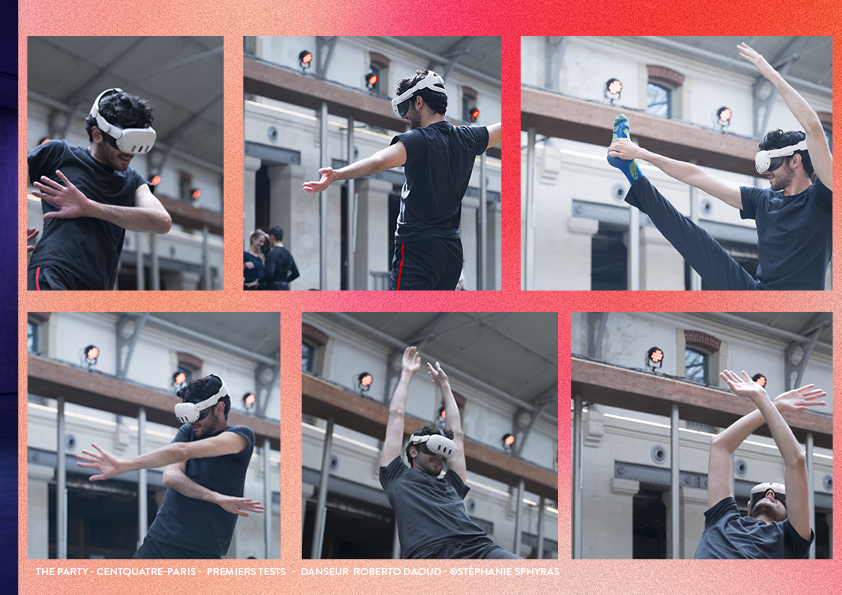
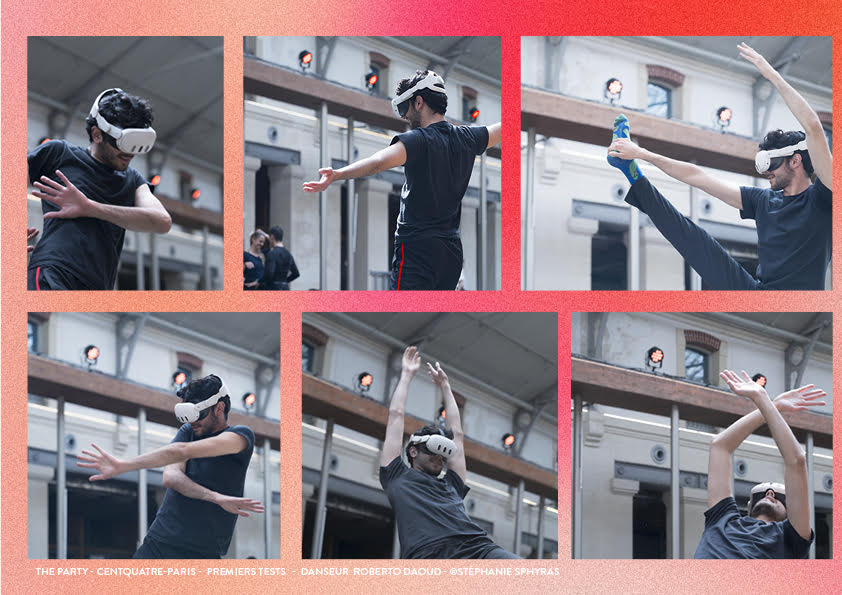
fix(the-party): corriger la slide et le doublon photo

Changed region(s): [[0.0, 0.0, 0.0309, 1.0]]

diff --git a/src/the-party.html b/src/the-party.html
@@ -192,16 +192,13 @@
                     <img src="img/pages/the-party/the-party-1.jpg" alt="The Party : page de présentation du projet de réalité mixte et théâtre" width="842" height="595" loading="lazy">
                 </figure>
                 <figure>
-                    <img src="img/pages/the-party/the-party-2.jpg" alt="The Party : intentions artistiques et contexte de développement" width="842" height="595" loading="lazy">
+                    <img src="img/pages/the-party/the-party-2.jpg" alt="The Party : danseur équipé d'un casque VR dans un montage de six photos au Centquatre-Paris" width="842" height="595" loading="lazy">
                 </figure>
                 <figure>
                     <img src="img/pages/the-party/the-party-3.jpg" alt="The Party : univers visuel et dramaturgie immersive" width="842" height="595" loading="lazy">
                 </figure>
                 <figure>
                     <img src="img/pages/the-party/the-party-4.jpg" alt="The Party : présentation avec légende et crédits de l'image principale" width="842" height="595" loading="lazy">
-                </figure>
-                <figure>
-                    <img src="img/pages/the-party/the-party-photo.jpg" alt="The Party : photographie seule issue de l'export sans légende" width="486" height="595" loading="lazy">
                 </figure>
             </div>
         </section>

diff --git a/tests/prd013-catalogue-xr-the-party.spec.js b/tests/prd013-catalogue-xr-the-party.spec.js
@@ -10,7 +10,6 @@ const thePartyAssets = [
   'img/pages/the-party/the-party-2.jpg',
   'img/pages/the-party/the-party-3.jpg',
   'img/pages/the-party/the-party-4.jpg',
-  'img/pages/the-party/the-party-photo.jpg',
 ];
 
 function readSrc(relativePath) {
@@ -68,6 +67,7 @@ test.describe('PRD-013 - catalogue XR et The Party', () => {
       expect(fs.existsSync(path.join(srcDir, asset)), asset).toBe(true);
       expect(page, asset).toContain(asset);
     }
+    expect(page).not.toContain('img/pages/the-party/the-party-photo.jpg');
 
     expect(xr).toContain('href="the-party.html"');
     expect(xr).toContain('The Party');

diff --git a/prd-meta-workflow/PRD-013-catalogue-xr-the-party.MD b/prd-meta-workflow/PRD-013-catalogue-xr-the-party.MD
@@ -3,7 +3,7 @@
 **Statut** : Implémenté et vérifié localement
 **Date** : 2026-06-21
 **Auteur** : Alex
-**Source** : `retour/changements_site (1).docx`, `retour/site_images/the_party*.jpg`, inspection de `src/index.html` et `src/experiences-series.html`
+**Source** : `retour/changements_site (1).docx`, `retour/site_images/the_party*.jpg`, `retour/the-party-1.jpg`, inspection de `src/index.html` et `src/experiences-series.html`
 
 ---
 
@@ -35,7 +35,8 @@ Depuis l’onglet XR, le visiteur voit The Party apparaître parmi les projets X
 - La liste `En développement` ne contient pas The Party.
 - Les lignes Marilyn et Toulouse-Lautrec ne mentionnent pas Pixihead.
 - `src/experiences-series.html` ne contient pas The Party dans la grille XR.
-- Les assets suivants sont disponibles : `the_party.jpg`, `the_party2.jpg`, `the_party3.jpg`, `the_party4.jpg`, `the_party4_photo_sans_légende.jpg`.
+- Les assets initiaux suivants sont disponibles : `the_party.jpg`, `the_party2.jpg`, `the_party3.jpg`, `the_party4.jpg`, `the_party4_photo_sans_légende.jpg`.
+- Stéphanie a fourni ensuite `retour/the-party-1.jpg` comme export corrigé de la deuxième slide, sans bord violet. La photo portrait isolée ne doit pas être réaffichée en fin de page, car elle existe déjà dans la présentation.
 - PRD-011 a déjà déplacé `Ni vues ni connues` vers Films. Ce point ne doit pas être annulé.
 
 ---
@@ -66,6 +67,8 @@ Préparer The Party comme projet XR en développement, avec une intégration pro
 - The Party est listé dans l’accueil `#page-4`, dans `experiences-series.html`, dans le menu XR global, dans le plan du site, le sitemap et les fichiers IA ;
 - les mentions Pixihead sont ajoutées pour The Party, Marilyn et Toulouse-Lautrec dans la liste d’accueil ;
 - `Ni vues ni connues` reste classé côté Films et ne revient pas dans le menu XR ;
+- la deuxième slide utilise l’export corrigé sans bord violet fourni dans `retour/the-party-1.jpg` ;
+- la photo portrait isolée `the-party-photo.jpg` n’est plus référencée dans `the-party.html` pour éviter le doublon signalé ;
 - le test Playwright `tests/prd013-catalogue-xr-the-party.spec.js` couvre le contenu source, le maillage public et le rendu responsive.
 
 ---
@@ -146,6 +149,7 @@ La création de page dédiée et l’entrée dans le menu XR global ont été va
 - `Ni vues ni connues` reste absent du menu XR global.
 - Si page dédiée validée, `src/the-party.html` et `dist/the-party.html` existent.
 - Si page dédiée validée, `sitemap.xml`, `plan-du-site.html`, `llms.txt`, `for-ai.*` et `schema-webpage.jsonld` référencent The Party de manière cohérente.
+- `src/the-party.html` affiche quatre images de présentation et ne référence plus `img/pages/the-party/the-party-photo.jpg`.
 - Aucun lien interne ajouté ne pointe vers un fichier absent.
 - Aucun débordement horizontal n’est observé à 375, 600, 768, 1024 et 1440 px.
 - `npm run build:prod`, `npm test` et `npm run seo:check` terminent avec un code `0`.
@@ -166,5 +170,6 @@ La création de page dédiée et l’entrée dans le menu XR global ont été va
 
 | Date | Auteur | Changement |
 |------|--------|------------|
+| 2026-06-21 | Alex + Codex | Remplacement de la deuxième slide par l’export sans bord violet et suppression de la photo portrait doublonnée en fin de page |
 | 2026-06-21 | Alex + Codex | Implémentation de `the-party.html`, intégration des assets, ajout au menu XR, au catalogue, au sitemap, aux fichiers IA et au test Playwright dédié |
 | 2026-06-21 | Alex + Codex | Création du PRD |

diff --git a/CHANGELOG.MD b/CHANGELOG.MD
@@ -2,6 +2,7 @@
 
 ## 2026-06-21
 
+- Correction PRD-013 The Party : deuxième slide remplacée par l’export sans bord violet fourni par Stéphanie et suppression de la photo portrait doublonnée en fin de page.
 - Correction PRD-014 Toulouse-Lautrec : `toulouse-lautrec.html#page-53` utilise l’export complet validé pour résoudre le problème de logos, avec texte conservé en HTML accessible.
 - Mise à jour du PRD-014 après réponse de Stéphanie : mapping Marilyn confirmé, `marilyn.html#page-52` remplacée par l’export validé pour éviter deux images de tailles différentes, écriture inclusive maintenue uniquement sur Lautrec.
 - Mise à jour du PRD-016 après réponse de Stéphanie : nouvelle adresse confirmée comme siège social dans les mentions légales, dénomination légale `Swing Digital Production` conservée et animation logo rose laissée en attente d’asset.
